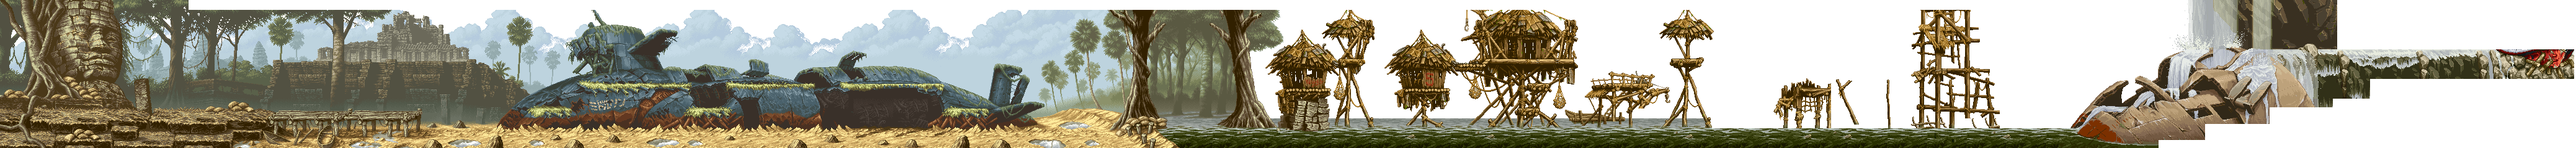
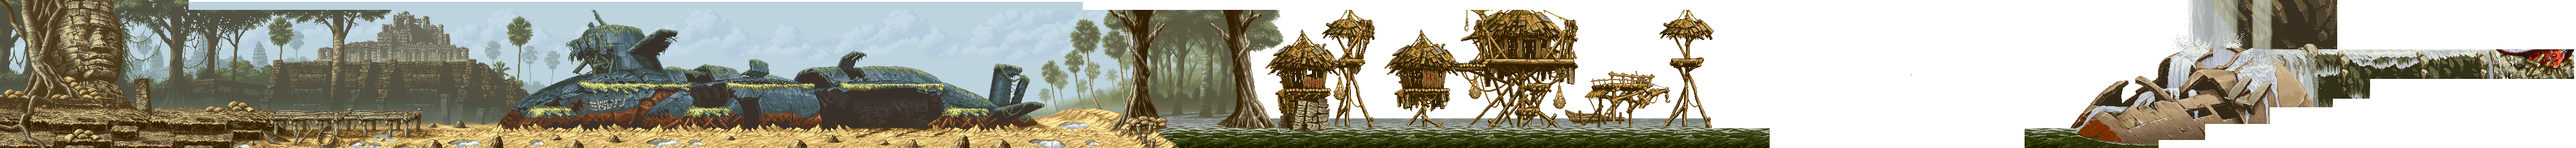
Building cleanup

diff --git a/map.js b/map.js
@@ -204,7 +204,7 @@
 								animations:{
 					    			idle: [0,7,"idle",10]
 					    		},
-								offset:{x:-1860, y:-190},
+								offset:{x:-1859, y:-191},
 								layer:"forground"
 							},
 							background_water_left:{
@@ -220,12 +220,20 @@
 								animations:{
 					    			idle: [0,7,"idle",10]
 					    		},
-								offset:{x:-1860, y:-174},
+								offset:{x:-1859, y:-176},
 								layer:"background"
 							},
 							water_middle:{
 								img:window["water"],
-								frames:[[903,17,146,32,0],
+								frames:[[1050,17,603,32,0],
+										[1050,68,603,32,0],
+										[1050,119,603,32,0],
+										[1050,170,603,32,0],
+										[1050,221,603,32,0],
+										[1050,272,603,32,0],
+										[1050,323,603,32,0],
+										[1050,374,603,32,0],
+										[903,17,146,32,0],
 										[903,68,146,32,0],
 										[903,119,146,32,0],
 										[903,170,146,32,0],
@@ -241,7 +249,15 @@
 							},
 							background_water_middle:{
 								img:window["water"],
-								frames:[[903,0,146,16,0],
+								frames:[[1050,0,603,16,0],
+										[1050,51,603,16,0],
+										[1050,102,603,16,0],
+										[1050,153,603,16,0],
+										[1050,204,603,16,0],
+										[1050,255,603,16,0],
+										[1050,306,603,16,0],
+										[1050,357,603,16,0],
+										[903,0,146,16,0],
 										[903,51,146,16,0],
 										[903,102,146,16,0],
 										[903,153,146,16,0],
@@ -304,7 +320,38 @@
 					    		},
 								offset:{x:-3195, y:-174},
 								layer:"background"
+							},
+							boat_house:{
+								img:window["buildings2"],
+								frames:[[1691,0,232,224,0],
+										[1999,0,232,224,0],
+										[2311,0,232,224,0]],
+								animations:{
+									idle: [0,0,"idle"]
+								},
+								offset:{x:-2952,y:4},
+								layer:"forground"
+							},
+							boat_house_base:{
+								img:window["buildings2"],
+								frames:[[2622,0,143,224,0]],
+								animations:{
+									idle: [0,0,"idle"]
+								},
+								offset:{x:-3081,y:4},
+								layer:"background"
 							}
+							,
+							boat_house_support:{
+								img:window["buildings2"],
+								frames:[[1584,134,93,87,0]],
+								animations:{
+									idle: [0,0,"idle"]
+								},
+								offset:{x:-2961,y:-100},
+								layer:"background"
+							}
+
 						};
 			}
 			// return images;
@@ -321,6 +368,7 @@
 						,{src:"img/mission1/waterfall.png", id:"waterfall"}
 						,{src:"img/mission1/airplane.png", id:"airplane"}
 						,{src:"img/mission1/water.png", id:"water"}
+						,{src:"img/mission1/buildings2.png", id:"buildings2"}
 					]
 				break;
 			}

diff --git a/sound.js b/sound.js
@@ -1,11 +1,6 @@
 (function(){
 
 	Sound = {
-
-		play: function(file){
-
-		},
-
 		manifest:  [
 					 {src:"sound/main.mp3|sound/main.ogg", id:"main"}
 					,{src:"sound/Carry Out.wav", id:"co"}
@@ -19,7 +14,7 @@
 					,{src:"sound/Soldier 4.wav", id:"s4"}
 					,{src:"sound/Soldier 5.wav", id:"s5"}
 		]
-		
+
 	};
 
 	return Sound;

diff --git a/soldat.js b/soldat.js
@@ -115,7 +115,7 @@ Soldat.prototype = {
 	},
 	run: function(dir) {
 		this.way = dir;
-		this.soldier.vX = 2;
+		this.soldier.vX = 2*8;
 		this.setDirection.call(this,"run");
 		//this.animations.under.gotoAndPlay("run");
 	},

diff --git a/main.js b/main.js
@@ -75,7 +75,7 @@ var images = {
 		
 
 
-		createjs.SoundJS.play("main");
+		// createjs.SoundJS.play("main");
 		createjs.Ticker.addListener(tick);
 	    createjs.Ticker.useRAF = true;
 	    createjs.Ticker.setFPS(60);
